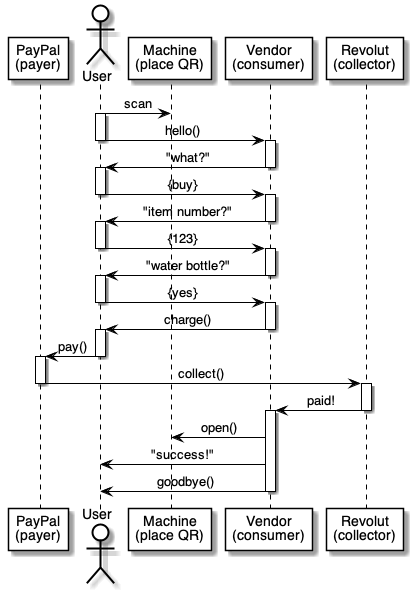
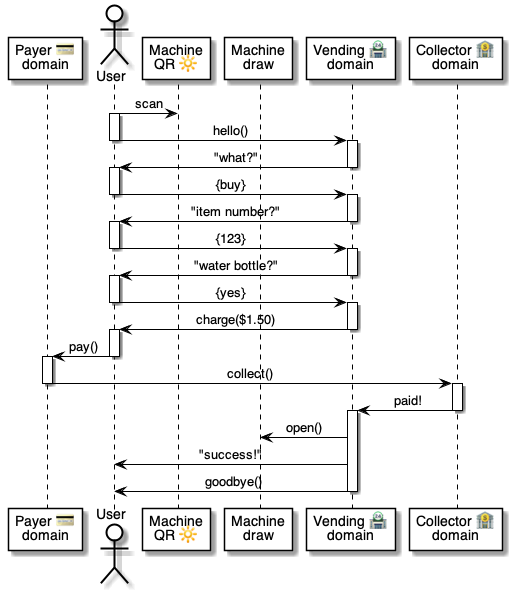
.

diff --git a/3 🤝 Use Cases/02 🍽 Eat & Drink/01 🍽 Drink at vendings 🏪/01 🏪 Index.md b/3 🤝 Use Cases/02 🍽 Eat & Drink/01 🍽 Drink at vendings 🏪/01 🏪 Index.md
@@ -2,6 +2,8 @@
 
 ![alt text](<.📎 Assets/cartoon.png>)
 
+<br/>
+
 1. **What are applicable scenarios?**
 
     |Scenario 🤝|Audience|Notes
@@ -47,12 +49,14 @@ TODO: other scenarios
     |`amount`| currency  | Translates the item number to price.
     |`success`| bool | Wait until the item is delivered.
     |`failure`| string | Register the unexpected failure.
+    |
 
     | Schema Codes | Purpose
     |-|-
     | [🧩 nlweb.org/IDENTITY/OVER21](<../../../8 📜 Manifests/👥 nlweb.org/{codes}/IDENTITY/🧩 IdentityOver21.md>) | Verify minimum age to drink.
+    |
 
-    ---
+    
     <br/>
 
 1. **What does the data look like?**
@@ -69,7 +73,7 @@ TODO: other scenarios
     | 126    | Sandwich      | $5.00  |
     | 127    | Chocolate bar | $1.00  |
     ```
-    ---
+    
     <br/>
     
 
@@ -81,9 +85,9 @@ TODO: other scenarios
     | [🤗 Host](<../../../4 ⚙ Solution/20 🧑🦰 UI/23 💬 Chats/04 🤗🎭 Host role.md>) | To manage the [Chats 💬](<../../../4 ⚙ Solution/20 🧑🦰 UI/23 💬 Chats/01 💬 Chat.md>).
     | [💵 Seller](<../../../4 ⚙ Solution/30 🫥 Agents/04 💳 Payers/01 💵🎭 Seller role.md>) | To charge for the products.
     | [💼 Consumer](<../../../4 ⚙ Solution/20 🧑🦰 UI/27 💼 Consumers/04 💼🎭 Consumer role.md>) | To verify minimum age.
+    |
 
 
-    ---
     <br/>
 
 1. **What are the [domain helpers 🛠](<../../../4 ⚙ Solution/20 🧑🦰 UI/24 🗄 Vaults/05 🛠👥 Helper domain.md>) required?**
@@ -91,8 +95,8 @@ TODO: other scenarios
     | [Helper 🛠](<../../../4 ⚙ Solution/20 🧑🦰 UI/24 🗄 Vaults/05 🛠👥 Helper domain.md>) | Purpose
     |-|-
     | [🏦 Collector](<../../../4 ⚙ Solution/30 🫥 Agents/04 💳 Payers/01 🏦🛠 Collector helper.md>) | To collect the amount paid.
+    |
 
-    ---
     <br/>
 
 
@@ -103,5 +107,7 @@ TODO: other scenarios
       Domain: any-vending.com
       Name: Any Vending
     ```
-    ---
+    
     <br/>
+
+  1. **What does the [text](<../../../4 ⚙ Solution/20 🧑🦰 UI/23 💬 Chats/05 🧑💻🛠 Hoster helper.md>)

diff --git a/6 🅰 APIs/14 🖨🅰 Printer/01 👥🚀🖨 Details.md b/6 🅰 APIs/14 🖨🅰 Printer/01 👥🚀🖨 Details.md
@@ -4,7 +4,47 @@
 
 # 👥🚀🖨 Details @ [Printer](<../../4 ⚙ Solution/70 🌳 Ambient/71 💠 Brand Things/08 🖨🏭 Printer helper.md>)
 
+> A [Printer 🖨 domain](<../../4 ⚙ Solution/70 🌳 Ambient/71 💠 Brand Things/08 🖨🏭 Printer helper.md>) returns the storage of a QR code, if any.
 
-|Property|Type|Description
-|-|-|-
+> No storage means that it’s free for grabs.
 
+<br/>
+
+## Synchronous Request 🚀
+
+```yaml
+Header:
+    From: any-domain.com
+    To: any-printer.com
+    Subject: Details@Printer
+Body: 
+    QRID: MY-QR-CODE
+```
+
+|Object|Property|Type|Description
+|-|-|-|-
+|Header| `From`| string | Caller [domain 👥](<../../40 👥 Domains/44 📜 Manifests/00 👥 Domain.md>) name
+|| `To` | string | [Printer 🖨 domain](<../../4 ⚙ Solution/70 🌳 Ambient/71 💠 Brand Things/08 🖨🏭 Printer helper.md>) name
+|| `Subject`| string | `Details@Printer`
+|Body|`QRID`| string | Unique ID of the QR on the [Printer 🖨](<../../4 ⚙ Solution/70 🌳 Ambient/71 💠 Brand Things/08 🖨🏭 Printer helper.md>)
+|
+
+
+<br/>
+
+## Synchronous Response
+
+```yaml
+Code: nlweb.org/THING
+Host: any-domain.com
+Mapping: MY-THING-ID
+Matadata: Property1,Property2
+```
+
+|Object|Property|Type|Description
+|-|-|-|-
+|Top    | `Code`    | enum | One of the [Schema Codes 🧩](<../../4 ⚙ Solution/20 🧑🦰 UI/24 🗄 Vaults/02 🧩 Schema Code.md>)<br/>• [nlweb.org/HOST 🧩](<../../8 📜 Manifests/👥 nlweb.org/{codes}/HOST/🧩 Host.md>)
+|       | `Host`    | string | [Host 🤗 domain](<../../4 ⚙ Solution/20 🧑🦰 UI/23 💬 Chats/04 🤗🎭 Host role.md>) name
+|       | `Mapping` | string | [Locator 🔆](<../../4 ⚙ Solution/20 🧑🦰 UI/22 🔆 Locators/01 🔆 Locator.md>) in the [Host 🤗 domain](<../../4 ⚙ Solution/20 🧑🦰 UI/23 💬 Chats/04 🤗🎭 Host role.md>)
+|       | `Metadata`| string | 
+|

diff --git a/4 ⚙ Solution/20 🧑🦰 UI/23 💬 Chats/03 😃 Talker.md b/4 ⚙ Solution/20 🧑🦰 UI/23 💬 Chats/03 😃 Talker.md
@@ -12,19 +12,21 @@
 
     [Talkers 😃](<03 😃 Talker.md>) dramatically reduce the time to build a [Host 🤗 domain](<04 🤗🎭 Host role.md>) by simplifying the workflow orchestration of a [💬 Chat](<01 💬 Chat.md>).
 
+    * They allow [Hoster 🧑💻 helper domains](<05 🧑💻🛠 Hoster helper.md>) to manage the workflow state on behalf of [Host 🤗 domains](<04 🤗🎭 Host role.md>), removing the undifferentiated heavy-lifting of handling [Prompts 🤔](<02 🤔 Prompt.md>) communications, and invoking [Host 🤗 domains](<04 🤗🎭 Host role.md>) only when it's necessary to execute business-specific logic.
+  
     ---
     <br/>
 
-1. **What are examples of Talkers?**
+2. **What are examples of Talkers?**
 
     |Example
     |-
-    | [🏪 Drink at vending machines](<../../../3 🤝 Use Cases/02 🍽 Eat & Drink/01 🍽 Drink at vendings 🏪/01 🏪 Index.md>)
+    | [🏪 Buy drinks at vending machines](<../../../3 🤝 Use Cases/02 🍽 Eat & Drink/01 🍽 Drink at vendings 🏪/01 🏪 Index.md>)
 
     ---
     <br/>
 
-2. **Coding commands**
+3. **Coding commands**
 
     * `💬|<title>:`	
         * Top menu entry - i.e., the "what?"
@@ -37,7 +39,7 @@
     <br/>
 
     
-3. **Flow commands**
+4. **Flow commands**
 
     * `CASE|<eval>|<anchor>`	
         * Runs a procedure when the eval is matched 
@@ -64,7 +66,7 @@
     ---
     <br/>
 
-4. **Prompt commands**
+5. **Prompt commands**
 
    * `CONFIRM|<message>|<falseProc>`	
        * Calls 👍 CONFIRM [Prompt 🤔](<02 🤔 Prompt.md>)
@@ -121,7 +123,7 @@
     ---
     <br/>
 
-5. **Behavior commands**
+6. **Behavior commands**
 
    * `BINDABLE|<codes>`	
        * Calls 👉 Advertise bindable: 🗄 Vault

diff --git a/8 📜 Manifests/👥 nlweb.org/{codes}/HOST/🧩 Host.md b/8 📜 Manifests/👥 nlweb.org/{codes}/HOST/🧩 Host.md
@@ -1,5 +1,12 @@
 
 # 🧩 [Schema Code](<../../../../4 ⚙ Solution/20 🧑🦰 UI/24 🗄 Vaults/02 🧩 Schema Code.md>): Host
+
+> Inherits from [nlweb.org/ORG 🧩](<../QR/🧩 QR.md>)
+
+> Used by [Printer 🖨 domain](<../../4 ⚙ Solution/70 🌳 Ambient/71 💠 Brand Things/08 🖨🏭 Printer helper.md>)
+
+<br/>
+
 ```yaml
 🤝: nlweb.org/MANIFEST/CODE
 

diff --git a/4 ⚙ Solution/20 🧑🦰 UI/23 💬 Chats/05 🧑💻🛠 Hoster helper.md b/4 ⚙ Solution/20 🧑🦰 UI/23 💬 Chats/05 🧑💻🛠 Hoster helper.md
@@ -237,6 +237,8 @@
     🤝: nlweb.org/HOSTER/LOCATORS
 
     Locators:
+        default: # if no Host Locator is provided.
+            Talker: talker-1
         locator-1:
             Talker: talker-1
         locator-2:
